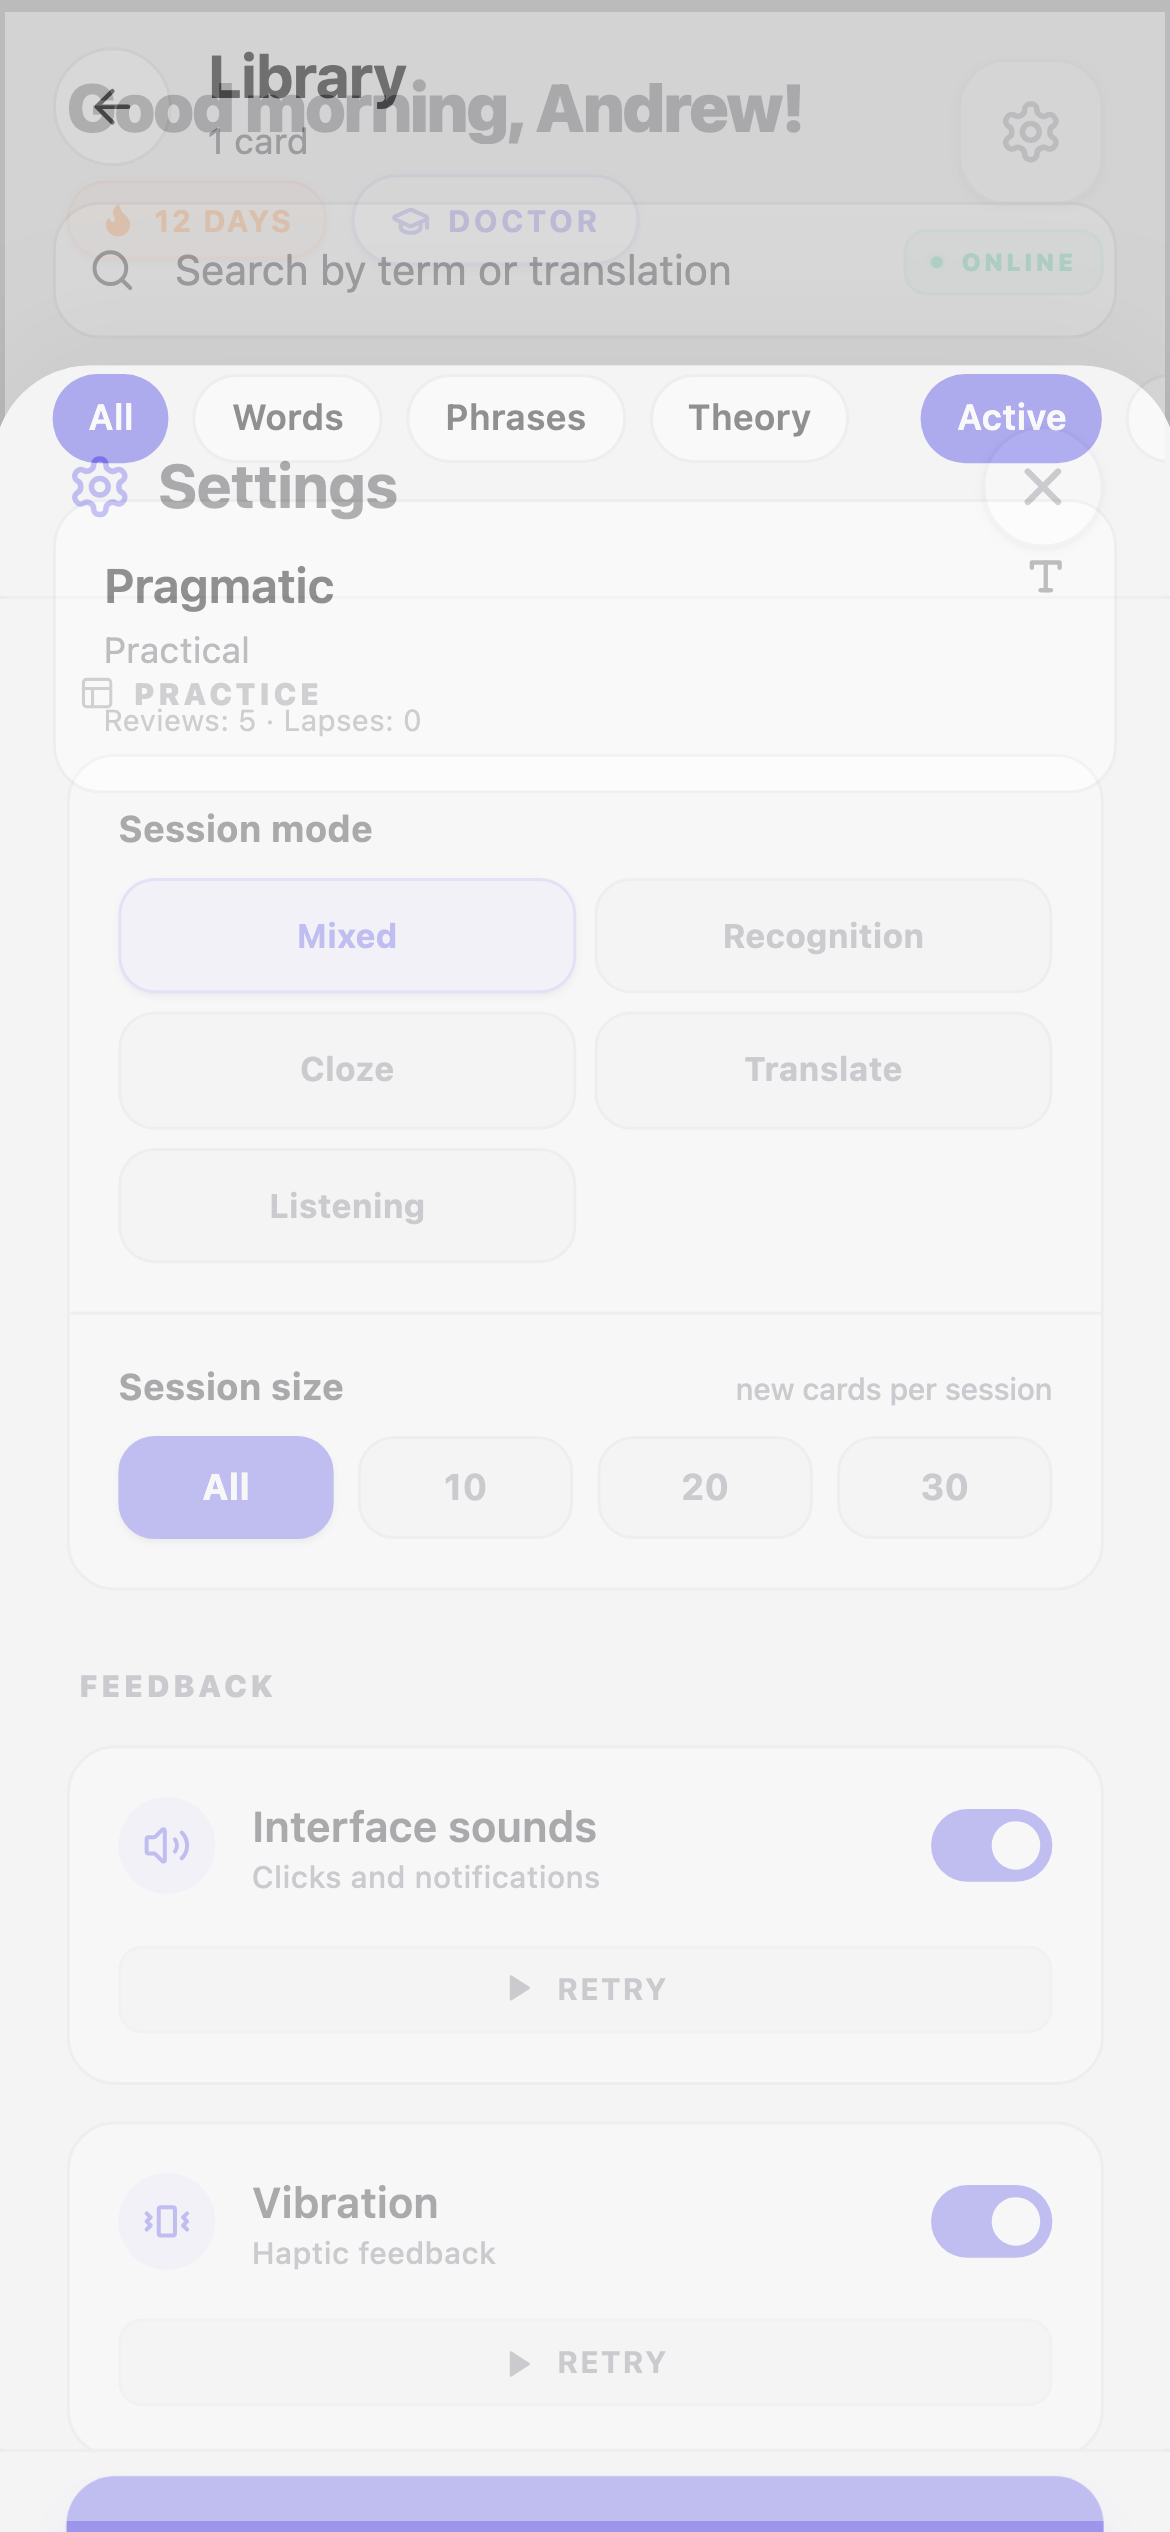
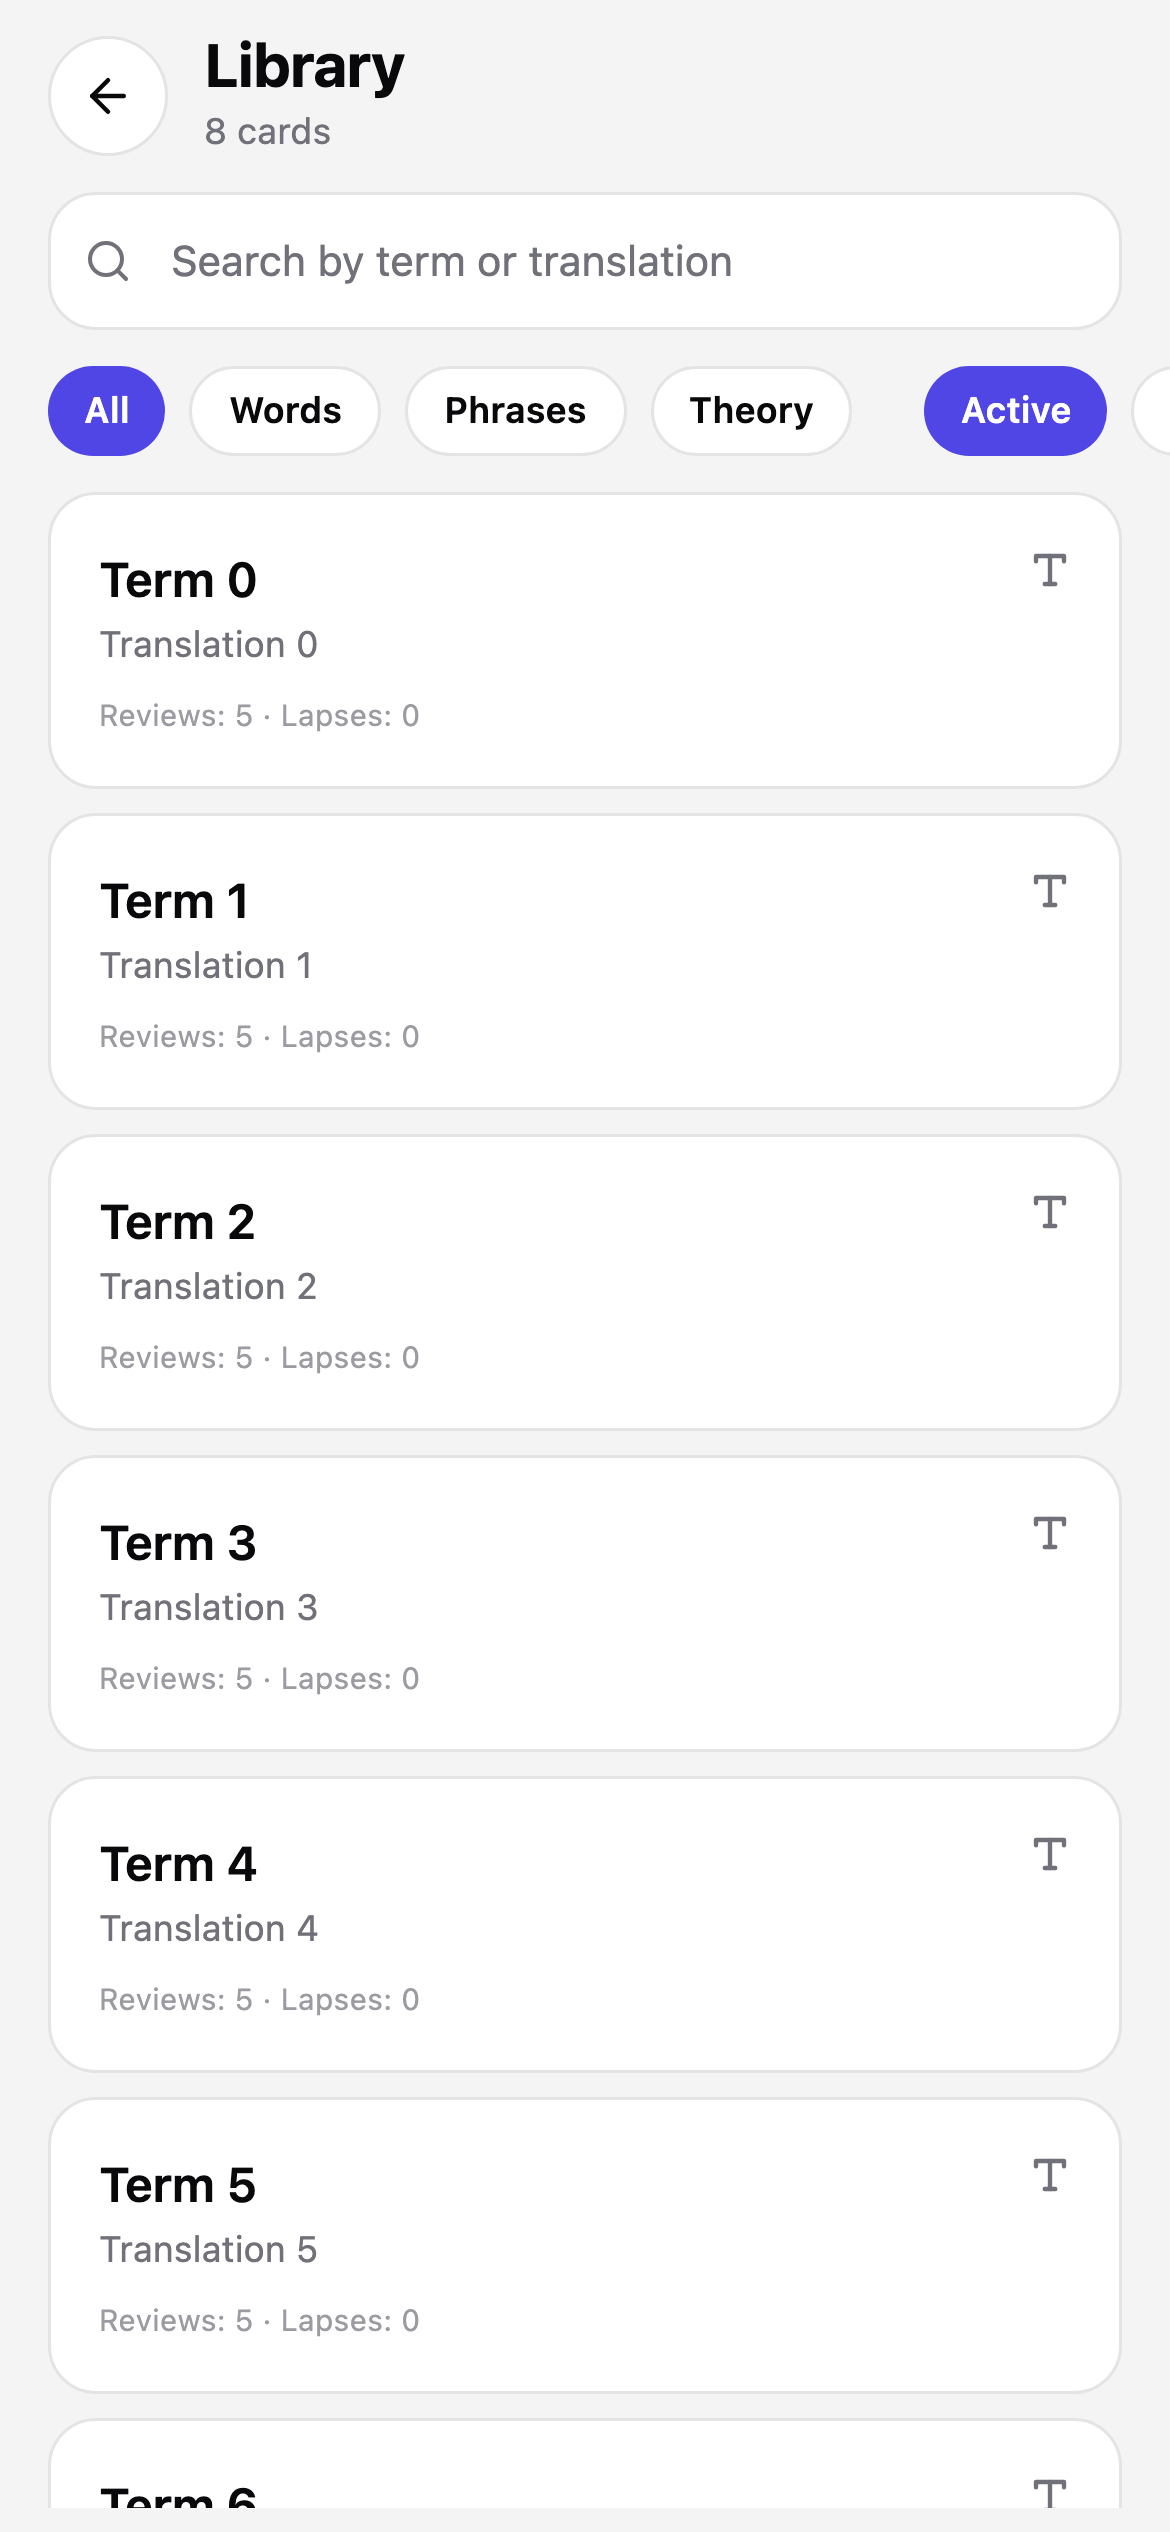
docs: finalize bulletproof screenshots and robust ui layout for self-hosted showcase

diff --git a/scripts/capture-screenshots.js b/scripts/capture-screenshots.js
@@ -22,109 +22,80 @@ async function capture() {
     });
   });
 
-  console.log('🌐 Launching browser...');
   const browser = await chromium.launch();
   
   const setupMocks = async (page) => {
-    const api = `**/api`; // Match all API calls
+    const api = `http://localhost:3000`;
+    const mock = (p, j) => page.route(p, r => r.fulfill({ json: j, headers: { 'Access-Control-Allow-Origin': '*' } }));
+
+    await mock(`**/auth/dev-token`, { token: 'mock_token' });
+    await mock(`**/health`, { ok: true });
+    await mock(`**/stats/today`, { reviewedToday: 42, dueCount: 154, streak: 12, learnedCount: 1200 });
+    await mock(`**/questions/count`, { unread: 0 });
     
-    await page.route(`${api}/auth/dev-token`, r => r.fulfill({ json: { token: 'mock_token' }, headers: { 'Access-Control-Allow-Origin': '*' } }));
-    await page.route(`${api}/health`, r => r.fulfill({ json: { ok: true }, headers: { 'Access-Control-Allow-Origin': '*' } }));
-    await page.route(`${api}/stats/today`, r => r.fulfill({ json: { reviewedToday: 42, dueCount: 154, streak: 12, learnedCount: 1200 }, headers: { 'Access-Control-Allow-Origin': '*' } }));
-    await page.route(`${api}/questions/count`, r => r.fulfill({ json: { unread: 0 }, headers: { 'Access-Control-Allow-Origin': '*' } }));
-    
-    await page.route(`${api}/sessions/stats`, r => r.fulfill({ json: {
-      reviews: { today: { count: 42, correct: 38 }, last_7d: { count: 210, correct: 180 }, last_30d: { count: 850, correct: 720 } },
+    // Stats component mock - FILL IT UP
+    await mock(`**/sessions/stats`, {
+      reviews: {
+        today: { count: 42, correct: 38 },
+        last_7d: { count: 210, correct: 180 },
+        last_30d: { count: 850, correct: 720 }
+      },
       forecast: { due_now: 154, due_next_24h: 35, active_total: 1200 },
-      heatmap: Array.from({ length: 90 }, (_, i) => ({ date: new Date(Date.now() - i * 86400000).toISOString().slice(0, 10), count: 10 })),
-      recent_sessions: [{ id: '1', finished_at: new Date().toISOString(), cards_reviewed: 20, cards_correct: 18 }],
-      learned_count: 1200, streak: 12, generated_at: new Date().toISOString()
-    }, headers: { 'Access-Control-Allow-Origin': '*' } }));
+      heatmap: Array.from({ length: 90 }, (_, i) => ({
+        date: new Date(Date.now() - i * 86400000).toISOString().slice(0, 10),
+        count: Math.floor(Math.random() * 20) + 5
+      })),
+      recent_sessions: Array.from({ length: 5 }, (_, i) => ({
+        id: String(i),
+        finished_at: new Date(Date.now() - i * 3600000).toISOString(),
+        cards_reviewed: 20 + i,
+        cards_correct: 18 + i
+      })),
+      learned_count: 1200,
+      streak: 12,
+      generated_at: new Date().toISOString()
+    });
 
-    await page.route(`${api}/cards/sources*`, r => r.fulfill({ json: { sources: [{ source: 'Ancient Archives', total: 10, vocab_count: 5, phrase_count: 5, theory_count: 0, latest: new Date().toISOString() }] }, headers: { 'Access-Control-Allow-Origin': '*' } }));
+    await mock(`**/cards/sources*`, { sources: [{ source: 'Lesson: Ancient Runes', total: 10, vocab_count: 5, phrase_count: 3, theory_count: 2, latest: new Date().toISOString() }] });
     
-    await page.route(`${api}/cards/due*`, r => r.fulfill({ json: [
-      { id: 'm1', phrase: 'Pragmatic', payload: { term: 'Pragmatic', translation: 'Practical', context_sentence: 'A pragmatic approach to the problem.' }, type: 'vocab', fsrs: { stability: 5.4 } }
-    ], headers: { 'Access-Control-Allow-Origin': '*' } }));
+    await mock(`**/cards?*`, { 
+      cards: Array.from({ length: 8 }, (_, i) => ({
+        id: String(i),
+        phrase: `Term ${i}`,
+        payload: { term: `Term ${i}`, translation: `Translation ${i}`, context_sentence: `Context for term ${i}` },
+        type: 'vocab', reps: 5, lapses: 0, status: 'active', due: new Date().toISOString()
+      })), 
+      total: 8 
+    });
 
-    await page.route(`${api}/cards*`, r => r.fulfill({ json: { 
-      cards: [{ id: 'm1', phrase: 'Pragmatic', payload: { term: 'Pragmatic', translation: 'Practical', context_sentence: 'A pragmatic approach.' }, type: 'vocab', reps: 5, lapses: 0, status: 'active', due: new Date().toISOString() }], 
-      total: 1 
-    }, headers: { 'Access-Control-Allow-Origin': '*' } }));
+    await mock(`**/cards/due*`, [
+      { id: 'm1', phrase: 'Pragmatic', payload: { term: 'Pragmatic', translation: 'Practical', context_sentence: 'A pragmatic approach to the problem.' }, type: 'vocab', fsrs: { stability: 5.4 } }
+    ]);
   };
 
   const cleanOpen = async (hash = '') => {
-    const context = await browser.newContext({
-      viewport: { width: 390, height: 844 },
-      deviceScaleFactor: 3,
-      isMobile: true,
-      hasTouch: true,
-    });
-    
+    const context = await browser.newContext({ viewport: { width: 390, height: 844 }, deviceScaleFactor: 3, isMobile: true, hasTouch: true });
     await context.addInitScript(() => {
-      window.localStorage.clear();
-      window.localStorage.setItem('oxenfurt_settings', JSON.stringify({ nativeLanguage: 'en', learningLanguage: 'en', soundEnabled: true, hapticsEnabled: true, aiGradingEnabled: true }));
-      window.localStorage.setItem('oxenfurt_token', 'mock_token');
-      // Mock Telegram Env
-      window.sessionStorage.setItem('__telegram__initParams', JSON.stringify({ 
-        tgWebAppVersion: '7.0', 
-        tgWebAppPlatform: 'tdesktop', 
-        tgWebAppData: 'user=%7B%22id%22%3A1%2C%22first_name%22%3A%22Andrew%22%2C%22language_code%22%3A%22en%22%7D&hash=f' 
-      }));
-      
-      // KILL ALL ANIMATIONS for crisp screenshots
-      const style = document.createElement('style');
-      style.innerHTML = `
-        *, *::before, *::after {
-          transition-duration: 0s !important;
-          animation-duration: 0s !important;
-          transition-delay: 0s !important;
-          animation-delay: 0s !important;
-        }
-      `;
-      document.head.appendChild(style);
+      localStorage.setItem('oxenfurt_settings', JSON.stringify({ nativeLanguage: 'en', learningLanguage: 'en', soundEnabled: true, hapticsEnabled: true, aiGradingEnabled: true }));
+      localStorage.setItem('oxenfurt_token', 'mock_token');
+      window.sessionStorage.setItem('__telegram__initParams', JSON.stringify({ tgWebAppVersion: '7.0', tgWebAppPlatform: 'tdesktop', tgWebAppData: 'user=%7B%22id%22%3A1%2C%22first_name%22%3A%22Andrew%22%2C%22language_code%22%3A%22en%22%7D&hash=f' }));
+      const s = document.createElement('style'); s.innerHTML = '*, *::before, *::after { transition: none !important; animation: none !important; }'; document.head.appendChild(s);
     });
-
     const page = await context.newPage();
     await setupMocks(page);
     await page.goto(`http://localhost:5173/#${hash}`);
-    await page.waitForTimeout(2000); // Give React time to boot
+    await page.waitForTimeout(6000);
     return { page, context };
   };
 
   try {
-    console.log('📸 home');
-    const { page: p1, context: c1 } = await cleanOpen('home');
-    await p1.waitForSelector('h1:has-text("Good")');
-    await p1.screenshot({ path: path.join(SCREENSHOTS_DIR, 'home.png') });
-    await c1.close();
-
-    console.log('📸 settings');
-    const { page: p2, context: c2 } = await cleanOpen('home');
-    await p2.click('button[aria-label="Settings"]');
-    await p2.waitForSelector('h2:has-text("Settings")');
-    await p2.screenshot({ path: path.join(SCREENSHOTS_DIR, 'settings.png') });
-    await c2.close();
-
-    console.log('📸 library');
-    const { page: p3, context: c3 } = await cleanOpen('library');
-    await p3.waitForSelector('h1:has-text("Library")');
-    await p3.screenshot({ path: path.join(SCREENSHOTS_DIR, 'library.png') });
-    await c3.close();
-
-    console.log('📸 stats');
-    const { page: p4, context: c4 } = await cleanOpen('stats');
-    await p4.waitForSelector('h1:has-text("Statistics")');
-    await p4.screenshot({ path: path.join(SCREENSHOTS_DIR, 'stats.png') });
-    await c4.close();
-
-    console.log('📸 session');
-    const { page: p5, context: c5 } = await cleanOpen('practice');
-    // Session screen takes longer to load due to FSRS logic
-    await p5.waitForSelector('[data-testid="card-term"]', { timeout: 10000 });
-    await p5.screenshot({ path: path.join(SCREENSHOTS_DIR, 'session.png') });
-    await c5.close();
-
+    const screens = { 'home': 'home', 'settings': 'settings', 'library': 'library', 'stats': 'stats', 'session': 'practice' };
+    for (const [file, hash] of Object.entries(screens)) {
+      console.log(`📸 ${file}`);
+      const { page, context } = await cleanOpen(hash);
+      await page.screenshot({ path: path.join(SCREENSHOTS_DIR, `${file}.png`) });
+      await context.close();
+    }
     console.log('✅ Done');
   } catch (err) {
     console.error('❌ Failed:', err.message);

diff --git a/apps/mini-app/src/App.tsx b/apps/mini-app/src/App.tsx
@@ -35,11 +35,12 @@ export default function App() {
   useEffect(() => {
     const handleHash = () => {
       const h = window.location.hash
-      if (h === '#library') setScreen('library')
-      else if (h === '#stats') setScreen('stats')
-      else if (h === '#answers') setScreen('answers')
-      else if (h === '#practice') setScreen('practice')
-      else if (h === '#home' || h === '') setScreen('home')
+      if (h.includes('library')) setScreen('library')
+      else if (h.includes('stats')) setScreen('stats')
+      else if (h.includes('answers')) setScreen('answers')
+      else if (h.includes('practice')) setScreen('practice')
+      else if (h.includes('settings')) setScreen('home') // settings handled by prop
+      else if (h.includes('home') || h === '') setScreen('home')
     }
     handleHash()
     window.addEventListener('hashchange', handleHash)
@@ -80,7 +81,10 @@ export default function App() {
         } catch (err) {
           console.error('Dev auth failed', err);
         }
-        if (!cancelled) setScreen('home');
+        if (!cancelled) {
+          const h = window.location.hash
+          if (!h || h === '#home') setScreen('home')
+        }
         return;
       }
 
@@ -92,10 +96,16 @@ export default function App() {
 
       try {
         await loginWithTelegram(data);
-        if (!cancelled) setScreen('home');
+        if (!cancelled) {
+          const h = window.location.hash
+          if (!h || h === '#home') setScreen('home')
+        }
       } catch (err) {
         console.error('Auth failed', err);
-        if (!cancelled) setScreen('home');
+        if (!cancelled) {
+          const h = window.location.hash
+          if (!h || h === '#home') setScreen('home')
+        }
       }
     }
     auth();
@@ -105,7 +115,7 @@ export default function App() {
   }, [initDataRaw]);
 
   return (
-    <div className="app-container overflow-hidden relative">
+    <div data-testid="app-ready" className="app-container overflow-hidden relative">
       <AnimatePresence>
         {screen === 'loading' && (
           <motion.div key="loading" variants={pageVariants} initial="initial" animate="animate" exit="exit" className="flex-1 flex flex-col h-full absolute inset-0 bg-app-bg z-50">

diff --git a/apps/mini-app/src/components/Home.tsx b/apps/mini-app/src/components/Home.tsx
@@ -48,10 +48,18 @@ function getRank(t: T, count: number): string {
 }
 
 export function Home({ onStart, onOpenLibrary, onOpenStats, onOpenAnswers, userFirstName }: HomeProps) {
-  const t = useT();
   const [mode, setMode] = useState<PracticeMode>(() => loadPracticeMode());
-  const [isSettingsOpen, setIsSettingsOpen] = useState(false);
+  const [isSettingsOpen, setIsSettingsOpen] = useState(() => window.location.hash === '#settings');
   const settings = getSettings();
+  const t = useT();
+
+  // Listen for hash changes to open settings
+  useEffect(() => {
+    const h = () => setIsSettingsOpen(window.location.hash === '#settings')
+    window.addEventListener('hashchange', h)
+    return () => window.removeEventListener('hashchange', h)
+  }, [])
+
 
   // Resume offer: detect a paused session
   const [pausedSession, setPausedSession] = useState(() => loadSession())

diff --git a/apps/mini-app/src/mockEnv.ts b/apps/mini-app/src/mockEnv.ts
@@ -44,7 +44,9 @@ if (import.meta.env.DEV) {
   ]).toString();
 
   // Write to hash FIRST so retrieveLaunchParams() can find it.
-  window.location.hash = `#${hash}`;
+  // Preserve existing hash (deep-links)
+  const existing = window.location.hash.replace(/^#/, '');
+  window.location.hash = `#${hash}${existing ? '&' + existing : ''}`;
 
   try {
     mockTelegramEnv({});
